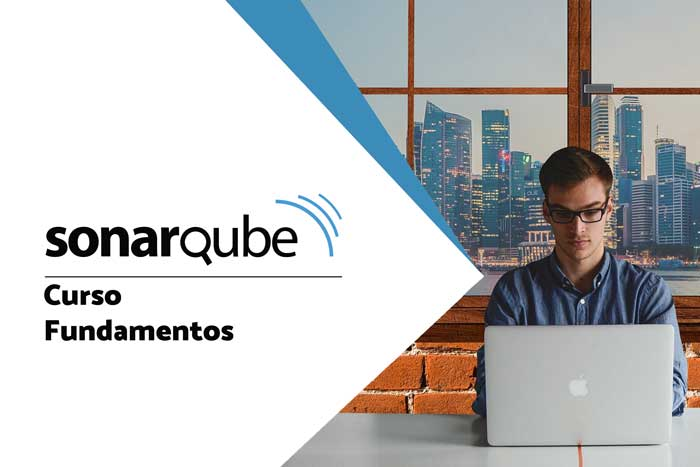
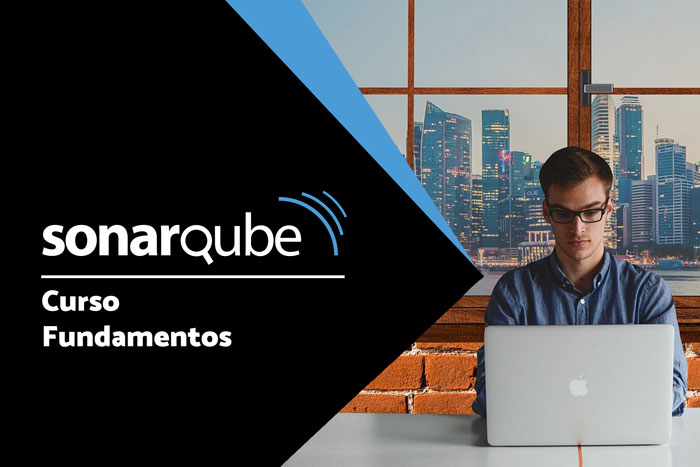
Formación
- New images
- Img alt updated
- Bottom banner (bg color changed)
- New text (curso, convocatorias)

diff --git a/formacion.html b/formacion.html
@@ -25,7 +25,7 @@ description: Todo nuestro catalogo de cursos de Atlassian (Jira, Confluence, ...
         </div>      </div>
       <div class="col-md-6">
         <img width="85%"
-             src="/img/services/excentia-formacion-y-cursos-para-empresas-y-particulares-transparent.png">
+             src="/img/services/excentia-formacion-y-cursos-para-empresas-y-particulares-transparent.png" alt="Servicios de formativos: cursos para empresas y particulares">
       </div>
     </div>
   </div>
@@ -41,10 +41,11 @@ description: Todo nuestro catalogo de cursos de Atlassian (Jira, Confluence, ...
       <div class="col-md-4">
         <div class="tarjeta-curso">
           <div class="informacion-curso">
-            <img width="250px" src="/img/sonarsource-products/SonarQube logo black 512 px.png" alt="Curso Fundamentos de SonarQube">
+            <img width="250px" src="/img/sonarsource-products/SonarQube logo black 512 px.png" alt="Curso Fundamentos de SonarQube en streaming y en español">
             <h3><strong>Curso Fundamentos de SonarQube</strong></h3>
             <p class="text-left">
-              ¿Quieres mejorar la calidad de tu código? Aprende a utillizar SonarQube con las mejores prácticas
+              En este curso aprenderás que es SonarQube y cómo utillizar la herramienta open-source más famosa para la inspección continua del código.
+
             </p>
           </div>
           <div class="enlace-curso">
@@ -56,10 +57,10 @@ description: Todo nuestro catalogo de cursos de Atlassian (Jira, Confluence, ...
       <div class="col-md-4">
         <div class="tarjeta-curso">
           <div class="informacion-curso">
-            <img width="250px" src="/img/sonarsource-products/SonarQube logo black 512 px.png" alt="Curso Avanzado de SonarQube en español">
+            <img width="250px" src="/img/sonarsource-products/SonarQube logo black 512 px.png" alt="Curso Avanzado de SonarQube en español y en streaming">
             <h3><strong>Curso Avanzado de SonarQube</strong></h3>
             <p class=" text-left">
-              Con el curso avanzando de SonarQube aprenderás ser un experto en el uso y administración de la herramienta.
+              Aprenderás a mejorar tu software basadote en el análisis estático del código e integrarlo con herramientas DevOps como Jenkins, Azure DevOps y Gitlab.
             </p>
           </div>
           <div class="enlace-curso">
@@ -74,11 +75,11 @@ description: Todo nuestro catalogo de cursos de Atlassian (Jira, Confluence, ...
             <i class="fa fa-building" style="visibility: visible; font-size: 80px"></i>
             <h3><strong>Curso a medida para empresas</strong></h3>
             <p class="text-left">
-              Preparamos los contenidos para poner el foco según necesidades concretas en tu escenario particular.
+              Empodera tu equipo. Preparamos los contenidos para poner el foco según necesidades concretas en tu escenario particular.
             </p>
           </div>
           <div class="enlace-curso">
-            <a href="/contacto" class="btn btn-primary btn-xl atlassian-background" style="border-radius: 4px;">DESCUBRE</a>
+            <a href="/contacto" class="btn btn-primary btn-xl atlassian-background" style="border-radius: 4px;">CONTACTA</a>
           </div>
         </div>
 
@@ -173,49 +174,45 @@ description: Todo nuestro catalogo de cursos de Atlassian (Jira, Confluence, ...
       <div class="col-md-4">
         <div class="tarjeta-con-imagen">
           <div class="informacion-curso">
-            <img width="100%" src="/img/services/curso-de-fundamentos-de-sonarqube-en-espanol-para-empresas-y-profesionales.jpg" alt="Cursos de Fundamentos de SonarQube en español para empresas y profesionales">
-            <h3>Curso Fundamentos de SonarQube</h3>
-            <p class="product-usage-description text-left">Rellena el siguiente formulario y te avisaremos cuando salgan las nuevas convocatorias.</p>
-          </div>
-          <div class="enlace-curso">
-              <a target="_blank" href="https://excentia.hubspotpagebuilder.com/escuela-excentia-cursos-formativos-proximas-convocatorias" class="btn btn-warning btn-xl sonarsource-background" style="border-radius: 4px;">APÚNTATE</a>
-          </div>
-        </div>
-      </div>
-      <div class="col-md-4">
-        <div class="tarjeta-con-imagen">
-          <div class="informacion-curso">
             <img width="100%" src="/img/services/curso-avanzado-de-sonarqube-en-espanol-para-empresas-y-profesionales.jpg" alt="Cursos Avanzado de SonarQube en español para empresas y profesionales">
             <h3>Curso Avanzado de SonarQube</h3>
+            <h4 class="text-left"> Formación Streaming</h4>
             <p class="product-usage-description text-left">
-              Rellena el siguiente formulario y te avisaremos cuando salgan las nuevas convocatorias.
+              Fechas: <strong>22 Marzo 2021 - 26 Marzo 2021</strong>
             </p>
-            <div style="margin-top: 20px; font-size:small">
-              <a href="https://www.excentia.es/curso-avanzado-de-sonarqube-en-espanol-y-en-vivo" style="color: black"><u>Descubre la última edición </u> ></a>
-            </div>
           </div>
           <div class="enlace-curso">
-            <a target="_blank" href="https://excentia.hubspotpagebuilder.com/escuela-excentia-cursos-formativos-proximas-convocatorias" class="btn btn-warning btn-xl sonarsource-background" style="border-radius: 4px;">APÚNTATE</a>
+              <a target="_blank" href="#" class="btn btn-warning btn-xl sonarsource-background" style="border-radius: 4px;">APÚNTATE</a>
           </div>
         </div>
       </div>
       <div class="col-md-4">
         <div class="tarjeta-con-imagen">
           <div class="informacion-curso">
-            <i class="fa fa-calendar" style="visibility: visible; font-size: 80px"></i>
-            <h3>Últimos eventos</h3>
+            <img width="100%" src="/img/services/curso-de-fundamentos-de-sonarqube-en-espanol-para-empresas-y-profesionales.jpg" alt="Cursos Fundamentos de SonarQube en español para empresas y profesionales">
+            <h3>Curso Fundamentos de SonarQube</h3>
+            <h4 class="text-left"> Formación Streaming</h4>
             <p class="product-usage-description text-left">
-              En <strong>excentia</strong> intentamos siempre estar a la última y nos gusta acudir a grandes y pequeños
-              eventos del sector donde seguir aprendiendo de otros equipos y conociendo mejor la tecnología.
-            </p>
-            <p class="product-usage-description text-left">
-              Descubre los últimos eventos donde hemos hablado sobre la calidad del software y procesos.
+              Fechas: <strong>12 Abril 2021 - 16 Abril 2021</strong>
             </p>
           </div>
           <div class="enlace-curso">
-
+            <a target="_blank" href="#" class="btn btn-warning btn-xl sonarsource-background" style="border-radius: 4px;">APÚNTATE</a>
+          </div>
+        </div>
+      </div>
+      <div class="col-md-4">
+        <div class="tarjeta-con-imagen">
+          <div class="informacion-curso">
+            <img width="100%" src="/img/services/proximos-eventos-excentia.png" alt="Próximos Eventos">
+            <h3>Eventos</h3>
+            <p class="product-usage-description text-left">
+              Nos encanta gusta acudir a grandes y pequeños eventos del sector donde discutir de las últimas novedades y aprender los unos de los otros.
+            </p>
+          </div>
+          <div class="enlace-curso">
             <div class="row">
-              <a href="/eventos" class="btn btn-warning btn-xl sonarsource-background" style="border-radius: 4px;">DESCUBRE</a>
+              <a href="/eventos" class="btn btn-warning btn-xl sonarsource-background" style="border-radius: 4px;">¡Síguenos la pista!</a>
             </div>
           </div>
         </div>
@@ -224,14 +221,14 @@ description: Todo nuestro catalogo de cursos de Atlassian (Jira, Confluence, ...
   </div>
 </section>
 
-<section id="atlassian-certificacion" class="atlassian-background text-center">
+<section id="atlassian-certificacion" class="sonarsource-background text-center" style="background-color: #37394f">
   <div class="container">
     <div class="row title">
       <h2>Transforma tu organización desatando el potencial de tus equipos</h2>
     </div>
     <div class="row">
       <div class="text-center">
-        <a class="btn btn-warning btn-xl" href="/contacto">CONSÚLTANOS</a>
+        <a class="btn btn-primary btn-xl atlassian-background" href="/contacto">SOLICITA PRESUPUESTO PARA LA FORMACIÓN DE TU EQUIPO</a>
       </div>
     </div>
   </div>
